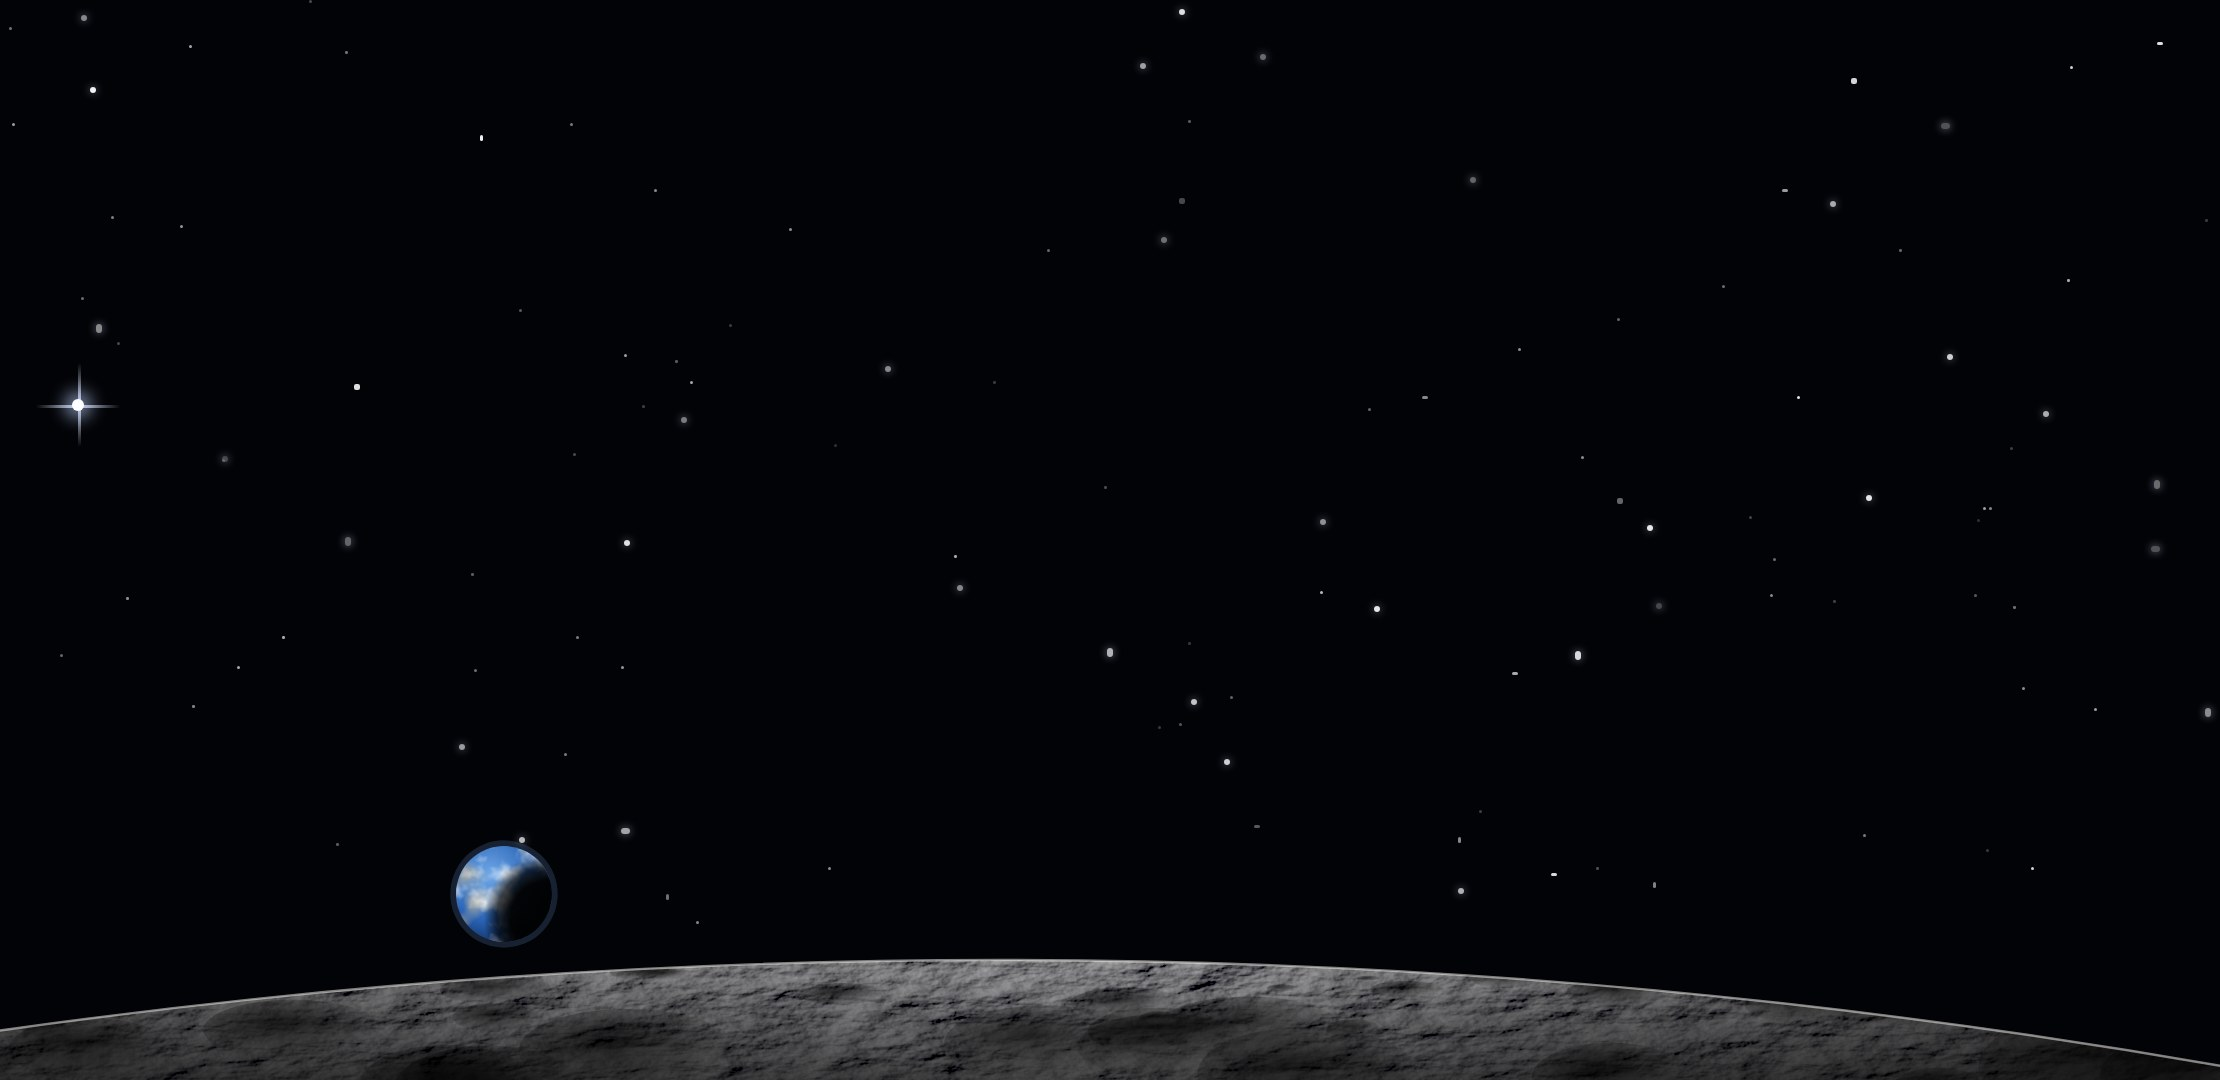
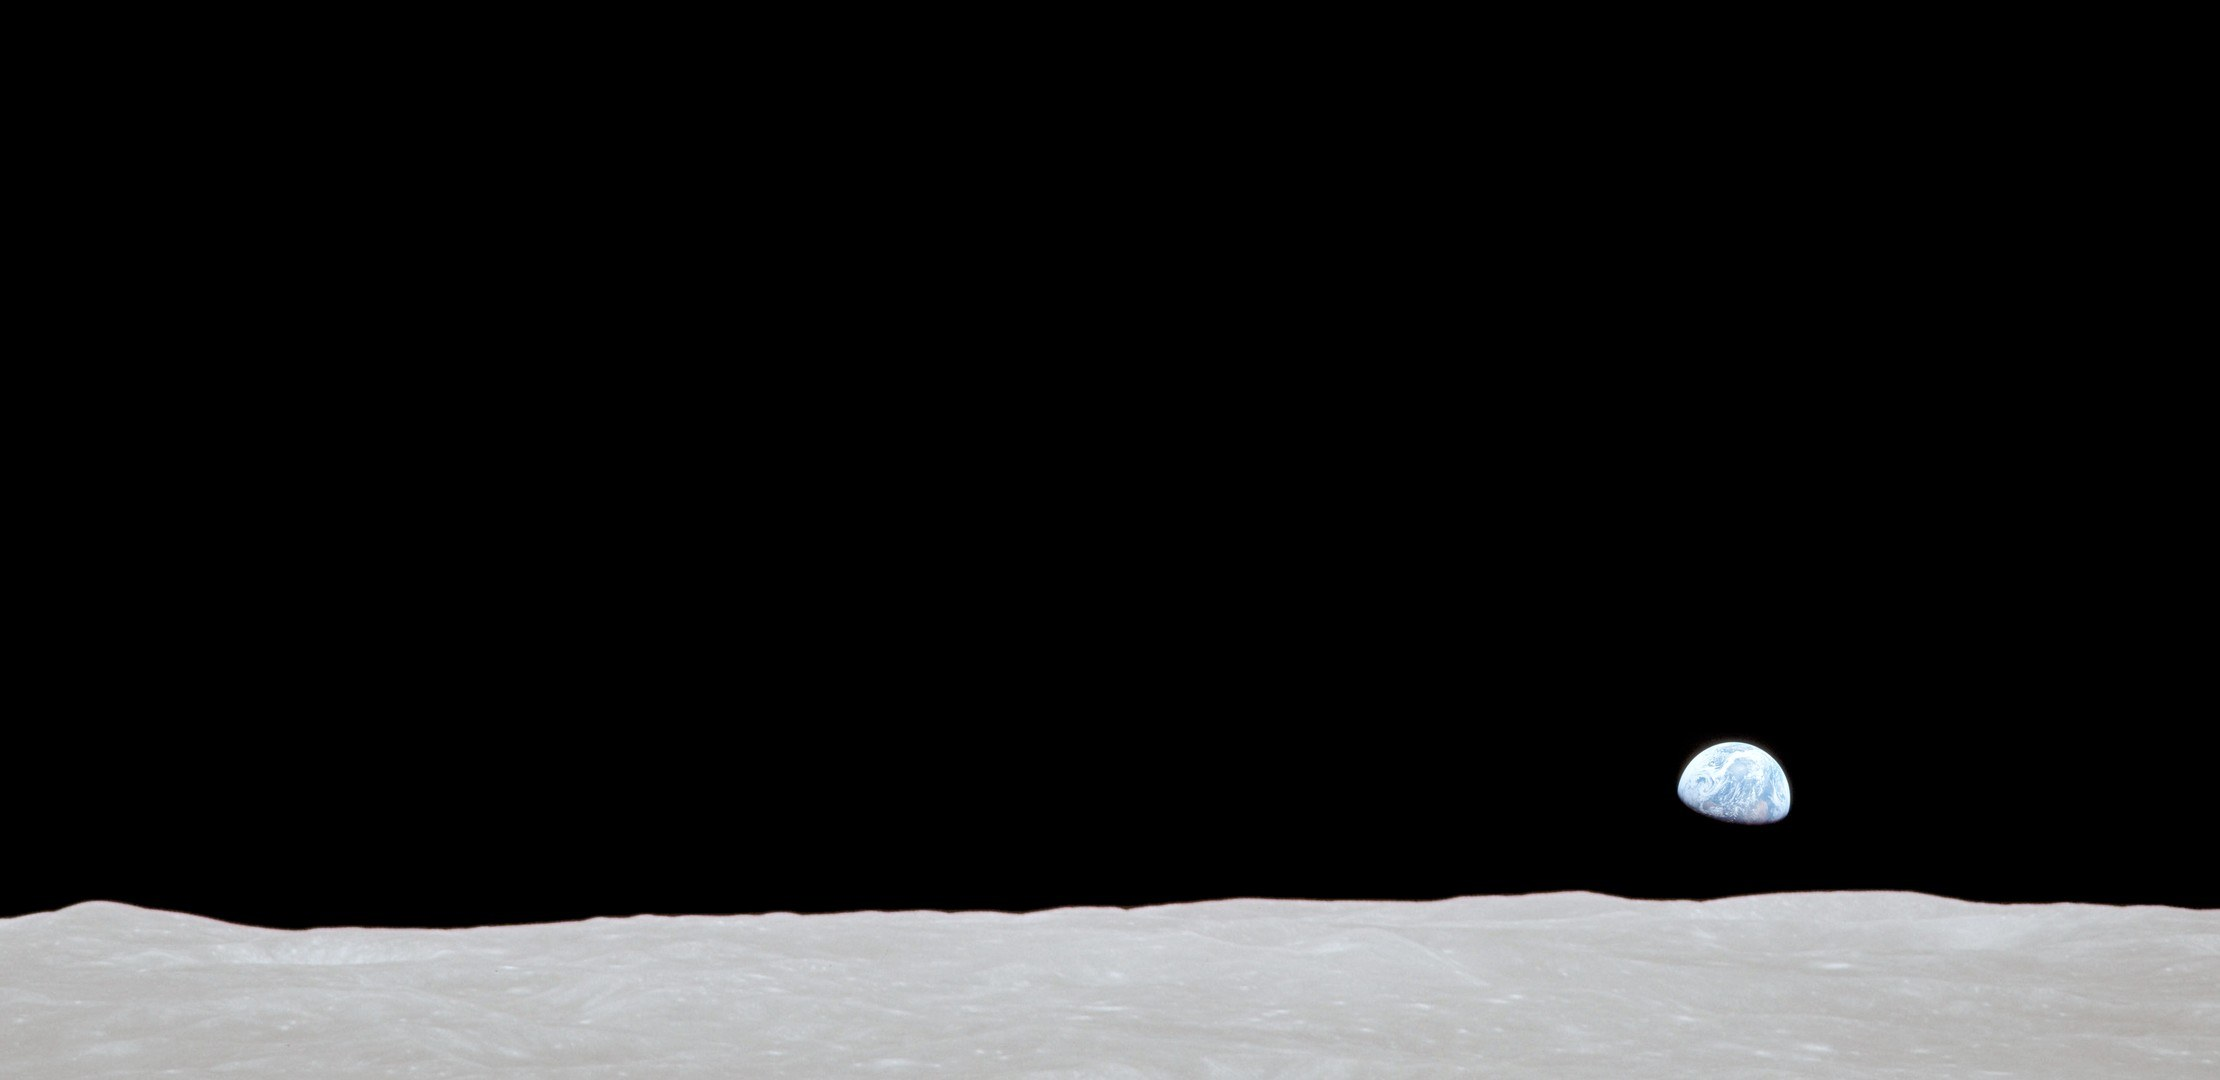
우주 · 어스라이즈를 NASA 원본 사진(아폴로 8호 AS08-14-2383)으로 (0.0.278)
- 필름 스캔을 돌려 지평선을 아래로, 수평 보정, 청록 빛 제거
- 지구는 원본에서 오려 버튼 옆 빈자리 지평선 위에 배치

Claude-Session: https://claude.ai/code/session_01GQFYYBXXgrKKPQhqbhorW8

diff --git a/docs/overview/overview.tpl.html b/docs/overview/overview.tpl.html
@@ -680,7 +680,7 @@ code{background:rgba(127,127,127,.15);padding:1px 6px;border-radius:5px;font-siz
 <li>종류 4가지 — 모두 실제 사진 느낌으로 미리 그려 앱에 넣은 그림이고, 장식은 모서리 · 가장자리에만 있어 게임에 방해가 덜합니다:
 <b>링 행성</b>(토성처럼 물결진 구름 띠 · 밤쪽 그림자 · 여러 겹 고리와 카시니 틈 · 고리 그림자, 세로는 오른쪽 아래 · 가로는 아래 가운데) ·
 <b>성운</b>(결이 있는 가스 구름과 먼지 띠, 위는 분홍 · 아래는 청록, 성운 속 밝은 별) ·
-<b>어스라이즈</b>(울퉁불퉁한 회색 달 표면 지평선 + 반쪽만 빛 받는 지구) ·
+<b>어스라이즈</b>(0.0.278부터 실제 사진: 아폴로 8호가 찍은 NASA 원본 필름 사진 AS08-14-2383을 돌려 지평선을 아래로 놓고, 필름의 청록 빛을 걷어 우주는 검정 · 달은 회색으로 맞춤. 지구는 버튼 옆 빈자리 지평선 위. 사진 출처: NASA / Apollo 8) ·
 <b>딥 필드</b>(제임스웹 사진처럼 붉은 먼 은하 · 타원 · 나선 · 옆으로 누운 은하 수백 개 + 6갈래 빛 별).</li>
 <li>게임 화면은 검은 바탕에 종류마다 색이 다른 얇은 빛 테를 두릅니다. 화면 아래 이름 띠는 없습니다.</li>
 <li><b>우주 버튼 자동</b>: 우주를 고르면 버튼 꾸미기가 "기본"일 때 새 테마 <b>우주</b>가 입혀집니다 — 방향키 · 알약 버튼은 어두운 청회색, A 분홍 · B 파랑 (X 보라 · Y 청록). 다른 테마를 고르면 그게 우선이고, 우주 테마는 다른 배경에서도 고를 수 있습니다.</li>
@@ -708,6 +708,9 @@ code{background:rgba(127,127,127,.15);padding:1px 6px;border-radius:5px;font-siz
 <li>0.0.277: 가로 테 두께는 화면 모양("틀" · "전체 화면")과 상관없이 얇게 맞춥니다. 게임큐브 · Wii 세로에서 − · HOME · + 줄을 위로 올려, 몸체 아래쪽 장식(브라운관 다이얼 · 스피커, 낙관 등)과 겹치지 않게 했습니다.</li>
 </ul>
 <figure><img src="img/landframe.jpg" alt="가로 테 시안"><figcaption>가로 DS 화면 테 · 얇게 · 배경 13가지 시안.</figcaption></figure>
+<h3>어스라이즈를 실제 사진으로 (0.0.278)</h3>
+<p>우주 배경의 <b>어스라이즈</b>를 직접 그린 그림에서 NASA 원본 사진(아폴로 8호, 1968, AS08-14-2383)으로 바꿨습니다. 필름 스캔을 돌려 달 지평선을 아래로 놓고 수평을 맞췄으며, 필름의 청록 빛을 걷어 우주는 검정, 달은 자연스러운 회색이 되게 했습니다. 지구는 원본 사진의 지구를 그대로 쓰되, 버튼과 겹치지 않게 세로는 B 버튼 오른쪽, 가로는 게임 화면과 B 사이의 지평선 위에 놓았습니다. 사진 출처: NASA / Apollo 8.</p>
+<figure><img src="img/earthrise-photo.jpg" alt="어스라이즈 실제 사진 시안"><figcaption>어스라이즈 · NASA 원본 사진 시안.</figcaption></figure>
 <figure><img src="img/bgopt.jpg" alt="배경 시안"><figcaption>배경 시안. (시안의 "레트로 그레이"는 이후 뺐습니다.)</figcaption></figure>
 <h3>내 사진 · 그림 배경 (0.0.177 ~ 0.0.180)</h3>
 <p>게임 중 메뉴 › 설정 › 배경에 "내 사진 · 그림"이 7번째 항목으로 추가됐습니다. 고르면 갤러리에서 사진을 고른 뒤 편집 화면이 열립니다. 0.0.204부터는 가로 화면으로 게임하다가 편집기를 열면 가로 편집부터 시작하고, 0.0.205부터는 열리는 순간 세로로 잠깐 도는 일도 없습니다.</p>
